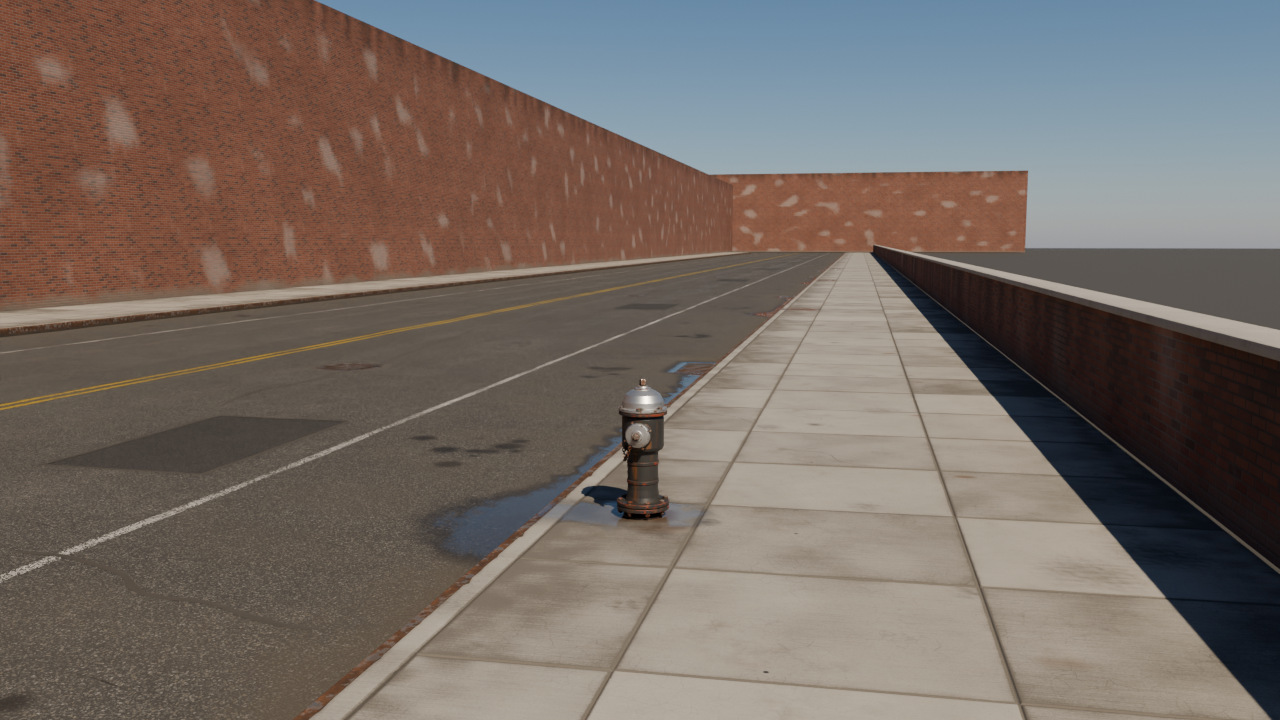
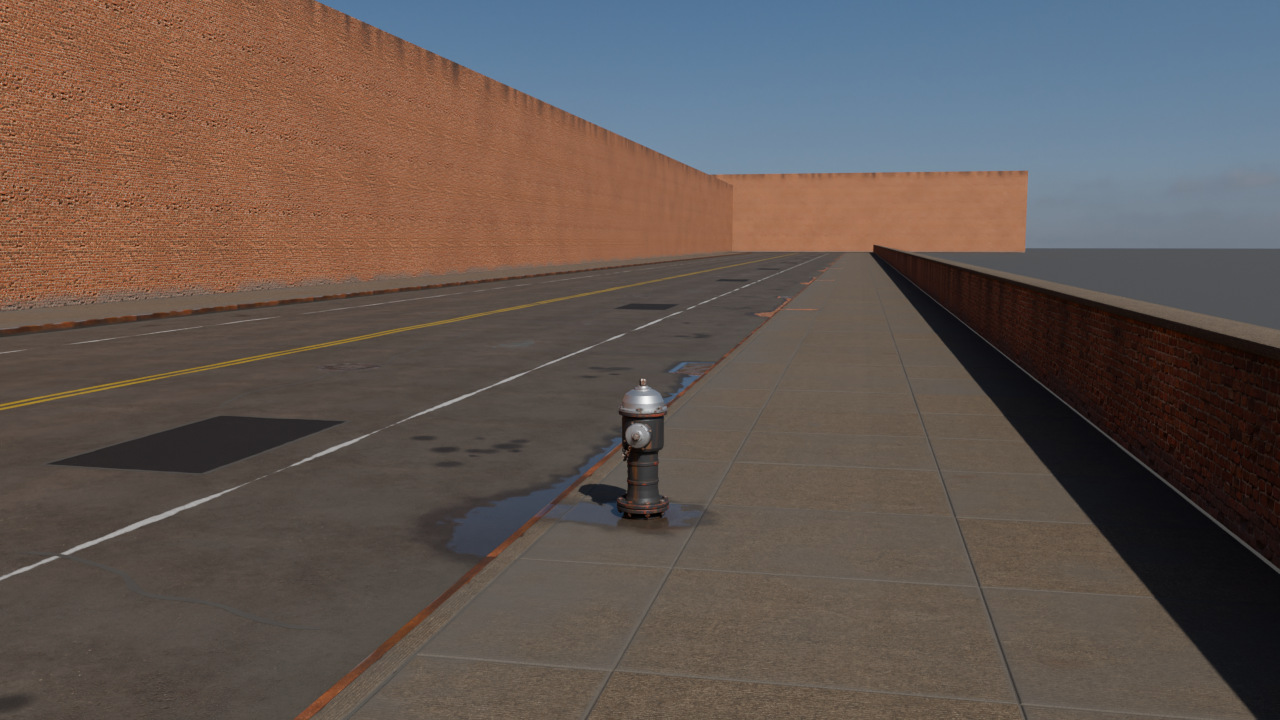
Art: elevated-line kit, scan-backed materials, pipeline README, refreshed street section
Five El modules and the street pieces export as GLB and pass the export validation; previews in
art/previews. Not yet imported into Unreal.

Claude-Session: https://claude.ai/code/session_01HkcHdD7NbyxwnFfuuSpZY4

diff --git a/art/blender/assets/el.py b/art/blender/assets/el.py
@@ -771,6 +771,8 @@ def on_preview(ctx, objs):
     more = layout(ctx, ctx.A, range(-3, 1), x_off, skip=(0,)) + layout(ctx, ctx.A, range(3, 9), x_off, skip=(3,))
     render.setup(samples=a.samples)
     kerb = street.KERB_H
+    # day shots: the lamps are off (the slot keeps its emitter for Unreal, where the level drives it)
+    mat.principled(ctx.M["glow"]).inputs["Emission Strength"].default_value = 0.0
     if want("el_wire"):
         clay = mat.flat("Clay", (0.55, 0.55, 0.55), 0.55)
         vl = bpy.context.view_layer
@@ -783,12 +785,12 @@ def on_preview(ctx, objs):
     # the design sun: 4:15 PM, bearing 260 (10 degrees south of due west), so the ties stripe the roadway
     if want("el_day_hero"):
         render.rig_day(sun_azimuth=render.DESIGN_SUN_BEARING, stops=0.7)
-        render.cam_look((-3.0, -8.7, kerb + 1.65), (40.0, -2.2, 3.4), lens=24, name="Cam_ElHero")
+        render.cam_look((-3.0, -7.55, kerb + 1.65), (40.0, 3.0, 2.7), lens=22, name="Cam_ElHero")
         _p, sec = render.render_jpeg(os.path.join(P, "el_day_hero.jpg"), a.samples)
         ctx.log("preview el_day_hero.jpg %.0fs" % sec)
     if want("el_day_column"):
         render.rig_day(sun_azimuth=render.DESIGN_SUN_BEARING, stops=0.9)
-        render.cam_look((x_off - 2.9, -7.3, 1.62), (x_off + 0.05, -4.6, 1.45), lens=30, name="Cam_ElColumn")
+        render.cam_look((x_off - 2.9, -7.3, 1.62), (x_off + 0.05, -4.6, 1.12), lens=26, name="Cam_ElColumn")
         _p, sec = render.render_jpeg(os.path.join(P, "el_day_column.jpg"), a.samples)
         ctx.log("preview el_day_column.jpg %.0fs" % sec)
     if want("el_day_under"):

diff --git a/art/blender/assets/street.py b/art/blender/assets/street.py
@@ -914,7 +914,6 @@ def _dress(ctx):
         top = loc[2] + size[2]
         geo.paint(wl, "A", lambda x, y, z: np.clip(np.exp(-(z - KERB_H) / 0.22) * (0.6 + 0.5 * streak.u(x + y, z)), 0, 1))
         geo.paint(wl, "R", lambda x, y, z: np.clip(0.75 * sstep(1.6, 0.0, top - z) * streak.u((x + y) * 3.0, z * 0.2) + 0.25 * blotch.u(x + y, z), 0, 1))
-        geo.paint(wl, "B", lambda x, y, z: np.clip((blotch.u(x * 1.7 + y, z * 2.0 + 9.0) - 0.72) * 3.0, 0, 1))
         scene.move_to(wl, col)
         out.append(wl)
     cope = geo.box((240.0, 0.42, 0.07), bevel=0.012, name="DressCope")

diff --git a/art/blender/README.md b/art/blender/README.md
@@ -1,0 +1,129 @@
+# MURDER INC. art pipeline (Blender, scripted)
+
+Every asset of the Unreal rebuild is authored by a Python script: reproducible, reviewable, no hand-saved `.blend`.
+`art/blender/` is committed; everything generated goes to `art/out/` (git-ignored) except the preview pictures in
+`art/previews/`.
+
+## Set-up
+
+```
+python3 -m venv venv && venv/bin/pip install bpy==5.3.0 numpy pillow     # Blender 5.3 as a Python module
+python3 art/scans/fetch.py                                               # scanned textures, skies (art/scans/README.md)
+
+venv/bin/python art/blender/build.py list
+venv/bin/python art/blender/build.py build el --export                   # GLB + manifest + validation, about 6 s
+venv/bin/python art/blender/build.py build el --preview --samples 64     # look-dev pictures, about 3 min each on 3 threads
+venv/bin/python art/blender/build.py build el --preview --only el_day_hero
+venv/bin/python art/blender/build.py build street --bake --export --preview
+blender -b -P art/blender/build.py -- build street --export             # the same inside a full Blender
+```
+
+Outputs: `art/out/glb/SM_*.glb`, `art/out/blend/<family>.blend`, `art/out/textures/<Set>/T_<Set>_{BC,N,ORM,H}.*`,
+`art/out/manifest.json` (assets, slots, sets, tile sizes, bounds, collision hints), `art/previews/*.jpg`
+(1280 x 720, at most 300 kB).
+
+## Conventions
+
+- Metres, Z up, east = +X, north = +Y. Web game (x, y, z) = Blender (x, -z, y). Unreal = (x, -y, z) x 100
+  (`scene.web_to_blender`, `scene.blender_to_unreal`).
+- Pivots. Props: centre of the footprint on the ground, forward +X. Modular street and structure pieces: west end,
+  centre line, ground level, running +X. Wall modules: bottom-left corner of the outer face, running +X, outer face
+  toward -Y.
+- Names. Meshes `SM_<Family>_<Name>[_<Variant>]`. Tiling sets `TS_<Surface>_<Variant>` are used through slots named
+  `MI_<Surface>_<Variant>`; a prop's unique baked set is named after the asset and used through `M_<Asset>`.
+  Textures `T_<Set>_BC`, `_N` (OpenGL, +Y up), `_ORM` (AO, roughness, metallic), `_H`.
+- Large and modular surfaces use tiling sets with UVs in real metres divided by the set's tile size
+  (`mat.scan_tile(set)`; 1 UV unit = one repeat). They are never baked uniquely.
+- The colour attribute `Wear` (exported as COLOR_0) drives the material layers:
+  R dirt in cavities, G edge wear (and the blend to a second set, e.g. paint to rust), B downward leaks and rust
+  runs, A splash-back dust (`alpha="splash"`) or wetness with puddles (`alpha="wet"`).
+- Geometry: anything real that is larger than about 5 mm is modelled (rivets, bolt heads, plate edges); hard edges
+  are bevelled or chamfered; a module stays under about 300k triangles.
+
+## The library (`art/blender/mi`)
+
+| Module | What matters |
+|---|---|
+| `scene` | `reset()`, `collection`, `new_object`, `duplicate(ob, linked=True)`, `place(ob, loc, rot_z_deg)`, `bounds`, `set_pivot`, `rng(*key)` (seeded numpy generator), `save_blend`. |
+| `geo` | Primitives, bevelled by default: `box`, `cylinder`, `tube`, `revolve`, `sweep`, `pipe`, `plate` (with holes), `heightfield`, `text`, `hex_bolt`, `rivet`, `nut`; `instances(proto, matrices)` with `ring_/line_/grid_matrices`; `join`, `transform`, `densify`, `boolean`, `bevel_edges`, `smooth_by_angle`, `weighted_normals`. UVs: `uv_world_box(ob, tile_m)` (box projection in metres), `uv_rescale_by_slot`, `uv_unwrap(ob, res)` for unique sets, `uv_texel_density`. Wear: `ensure_wear`, `paint(ob, "R", fn(x, y, z))`, `get_wear` / `set_wear(ob, rgba, per="vertex" or "corner")`, `wear_from_geometry(ob)` (curvature + ray-cast occlusion + height), `curvature`, `occlusion`. `stats(ob)`. |
+| `steel` | `Builder`: built-up steelwork assembled in numpy. `box` (plate), `prism(profile, origin, u, v, ext, slot)` with the profiles `angle`, `ibeam`, `channel`, `rail`, `rect`; `plate_rows` / `poly_plate` (gussets); `rivets(points, normal, slot)`; `absorb(ob, slot)` for any Blender mesh; `finish(name, {slot: material}, col)`. Each face is UV-projected in its own plane in real metres. `loops(ob)` gives per-corner position, normal, convex / concave tags and occlusion to paint masks from; `streaks(...)` paints runs below rivets and connections. |
+| `mat` | `from_scan("TS_...", blend="TS_...", alpha=..., tint=..., **layers)`: a material on a catalogued scan (textures from `art/out/textures/<Set>/`, tile size from `art/scans/sets.json`, stored as `m["mi_tile_m"]`). `from_texture_set(dir, ...)`: the same on any `T_*` files (baked sets). `make(name, kind, ...)`: the procedural surfaces (`build.py list`), used for what scans cannot give (road markings, patches, tar, the wet gutter). All three share the Wear and wetness interface, so swapping one for another changes nothing on the mesh. `scan_tile`, `scan_info`, `flat`. |
+| `bake` | `bake_tiling_set` (procedural surface to a seamless set), `bake_object` (unique set of a prop), `tiled_preview`. |
+| `export` | `validate(ob, expect_size)` and `export_asset(...)`: GLB (optionally FBX) with the pivot at the file origin, slots by name without embedded textures, manifest entry. Validation fails on: bad name, unapplied scale, zero-area faces, inconsistent winding, inside-out closed meshes, empty or misnamed slots, no UV map, no Wear attribute, size outside the brief; it warns over 300k triangles. |
+| `render` | `setup(samples)`, `rig_day(sun_azimuth=compass bearing, stops=0)`, `rig_night(...)`, `sign(...)`, `cam_look`, `cam_eye`, `cam_hero`, `cam_top`, `render_jpeg(path, samples)` (keeps under 300 kB), `contact_sheet`, `backdrop`. |
+
+`build.py` gives a family's `build(ctx)` a context: `ctx.col`, `ctx.rng(*key)`, `ctx.log`,
+`ctx.scan_set(set, blend=..., **kw)`, `ctx.tiling_set(set, kind, ...)` (procedural, baked with `--bake`),
+`ctx.unique_set(ob)`, `ctx.asset(ob, collision, cover_height, notes, expect_size, slots)`.
+Optional hooks in the family module: `on_bake`, `on_export`, `on_preview(ctx, objs)`.
+
+### Day lighting
+
+`render.rig_day` lights with a scanned clear-sky dome from the catalogue (`render.DAY_HDRI`,
+`kloofendal_43d_clear_puresky`, sun 42.9 degrees up). The dome is turned so its sun stands at the compass bearing
+`sun_azimuth` (the design sun, 4:15 PM, is `render.DESIGN_SUN_BEARING` = 260), and the view exposure is the
+catalogue's measured value at which an 18 % card lying in the open renders at 18 %, plus `stops` (about +1 under
+the El). `hdri=None`, or a missing file, falls back to the analytic sky. View transform: AgX, medium-high contrast.
+
+## Families
+
+| Family | Assets |
+|---|---|
+| `street` | `SM_Street_Road_20m`, `SM_Street_Kerb_4m[_B,_Wet]`, `SM_Street_Sidewalk_4m[_B,_C,_Wet]`, `SM_Street_ManholeCover`, `SM_Street_DrainInlet`, `SM_Prop_Hydrant`. Scans for asphalt, concrete, kerb steel and brick; procedural layers for markings, patch, tar and the wet gutter. |
+| `el` | `SM_El_Column`, `SM_El_Bent`, `SM_El_GirderSpan_10m`, `SM_El_Deck_10m`, `SM_El_Lamp`. Placement: bents at x = 10 k; columns at (x, +-4.6, 0); bent, span and deck at (x, 0, 0); lamps at (x + 5, +-2.1, 6.02). Dimensions are the game's (`src/level/el.js`, `docs/unreal/spec/05-level.md`). |
+
+## Adding a family (under 40 lines)
+
+Save as `art/blender/assets/crate.py`, then `build.py build crate --export --preview`. (This example was run
+through `export.validate` and passes.)
+
+```python
+"""Example family: a timber crate on steel skids."""
+from mi import geo, mat
+
+FAMILY = {"name": "crate", "description": "Timber shipping crate on steel skids"}
+WOOD, STEEL = "TS_Wood_ScanTie", "TS_Steel_ScanPaintGreen"
+
+
+def part(size, loc, set_name, material):
+    ob = geo.box(size, bevel=0.005)                       # bevelled, centred in x and y, sitting on z = 0
+    geo.transform(ob, loc=loc)
+    geo.densify(ob, 0.10)                                 # vertices for the wear masks to live on
+    geo.uv_world_box(ob, mat.scan_tile(set_name))         # real metres / the set's real tile size
+    ob.data.materials.append(material)
+    return ob
+
+
+def build(ctx):
+    wood = ctx.scan_set(WOOD, alpha="splash")                         # slot MI_Wood_ScanTie
+    steel = ctx.scan_set(STEEL, blend="TS_Steel_ScanRust")            # G blends the paint to the rust scan
+    parts = [part((1.2, 0.8, 0.7), (0, 0, 0.08), WOOD, wood)]
+    parts += [part((1.2, 0.08, 0.08), (0, y, 0), STEEL, steel) for y in (-0.3, 0.3)]
+    ob = geo.join(parts, "SM_Prop_Crate", ctx.col)                    # pivot: centre of the footprint, on the ground
+    geo.wear_from_geometry(ob)                                        # R cavities, G edges, B leaks, A splash-back
+    ctx.asset(ob, collision="box", cover_height=0.78, expect_size=(1.2, 0.8, 0.78),
+              notes="Shipping crate, waist-high cover.")
+    return [ob]
+```
+
+Without hooks, `--export` validates and exports every asset declared with `ctx.asset`, and `--preview` renders a
+contact sheet. For custom pictures add `on_preview(ctx, objs)` (see `assets/el.py`).
+
+## Blender 5.3 notes (confirmed on bpy 5.3.0)
+
+- `Mesh.use_auto_smooth` is gone: shade smooth and mark sharp edges (`Mesh.set_sharp_from_angle`, wrapped by
+  `geo.smooth_by_angle`).
+- Materials and worlds have a node tree from creation; `use_nodes` is deprecated (removal announced for 6.0).
+- Sky Texture types are `SINGLE_SCATTERING`, `MULTIPLE_SCATTERING`, `PREETHAM`, `HOSEK_WILKIE` (no `NISHITA`).
+- Boolean solvers: `FLOAT`, `EXACT`, `MANIFOLD`.
+- Principled BSDF socket names: `Emission Color`, `Emission Strength`, `Specular IOR Level`, `Transmission Weight`,
+  `Coat Weight`, `Sheen Weight`, `Subsurface Weight`.
+- Lights take a colour temperature directly (`use_temperature`, `temperature`).
+- View transforms and render engines are registered at run time: read them from a live scene, not from the RNA
+  enum. The transforms are Standard, ACES 1.3, ACES 2.0, Khronos PBR Neutral, AgX, Filmic, Filmic Log, False Color,
+  Raw; AgX looks are named `AgX - <name>`.
+- `ImageFormatSettings` has a `media_type` property next to `file_format`.
+- The pip module has no GPU (the "CUEW initialization failed" line is harmless) and no Draco or MeshOptimizer
+  libraries (the two ERROR lines at export are harmless: GLB files are written uncompressed).
+- glTF export: vertex colours are written with `export_vertex_color="ACTIVE"` plus
+  `export_all_vertex_colors` / `export_active_vertex_color_when_no_material`; `export_yup=True` converts to +Y up.

diff --git a/art/blender/PROGRESS.md b/art/blender/PROGRESS.md
@@ -1,0 +1,37 @@
+# Progress (art/blender)
+
+Task: library check + README, scan-backed materials + HDRI day rig, the El kit (assets/el.py), look-dev previews.
+
+## Done (earlier runs, reviewed by the current run where marked)
+- mi/mat.py: `from_scan(set_name, ...)` / `ctx.scan_set(...)` build materials from catalogued scans (reviewed: in use).
+- mi/steel.py: riveted-steel builder (plates, angles, rivets, leak sources for the wear mask).
+- assets/el.py: SM_El_Column, SM_El_Bent, SM_El_GirderSpan_10m, SM_El_Deck_10m, SM_El_Lamp + layout + on_preview.
+- art/previews/el_wire.jpg rendered (clay): detail reads well.
+- art/out/glb/SM_El_*.glb exist from the earlier run (not yet re-validated by this run).
+
+## In progress (this run)
+1. `build.py build el --export` : confirm build + validation end to end.
+2. Render el_day_hero / el_day_column / el_day_under (`--preview --only <name>`), then street_day_hero refresh.
+3. README.md.
+
+## Exact next step
+Run: `python art/blender/build.py build el --export` and read the validation output.
+
+## Update (this run)
+- `build el --export` passes validation: column 32156, bent 42900, span 108844, deck 62228, lamp 2220 tris.
+- Rendered el_day_hero, el_day_column, el_day_under (64 samples, HDRI day rig). README.md written.
+- Review round 1 fixes applied in code (el.py on_preview cameras: hero closer to the kerb and aimed under the
+  structure, column camera includes the pedestal; lamps off by day; pale blotches removed from the dressing walls).
+- Next: re-render `build el --preview --only el_day_hero,el_day_column --samples 64`, then
+  `build street --preview --only street_day_hero --samples 64`, look at each, one more fix round at most.
+- Round 1 re-renders done (hero, column: good). street_day_hero refresh rendering.
+- Round 2 (last): hero aimed further under the structure (target y +3.0); el_day_under re-render with lamps off.
+  Command: `build el --preview --only el_day_hero,el_day_under --samples 64`. After that: final `build el --export`
+  and `build street --export` to leave manifest and GLBs current, then report.
+
+## State at hand-off: task complete
+- Round 2 renders done and looked at: el_day_hero, el_day_under (lamps off), street_day_hero refreshed.
+- Final `build el --export` and `build street --export` passed validation; art/out/manifest.json is current.
+- Nothing is pending. Known weaknesses (for a later pass): preview dressing is blank brick massing and a low yard
+  wall; guard rails are timber only (no steel inner guard rail); the street's utility patch reads as a flat dark
+  rectangle; wear masks are per-vertex at about 0.15 m, so rust edges are soft until Unreal adds detail noise.
